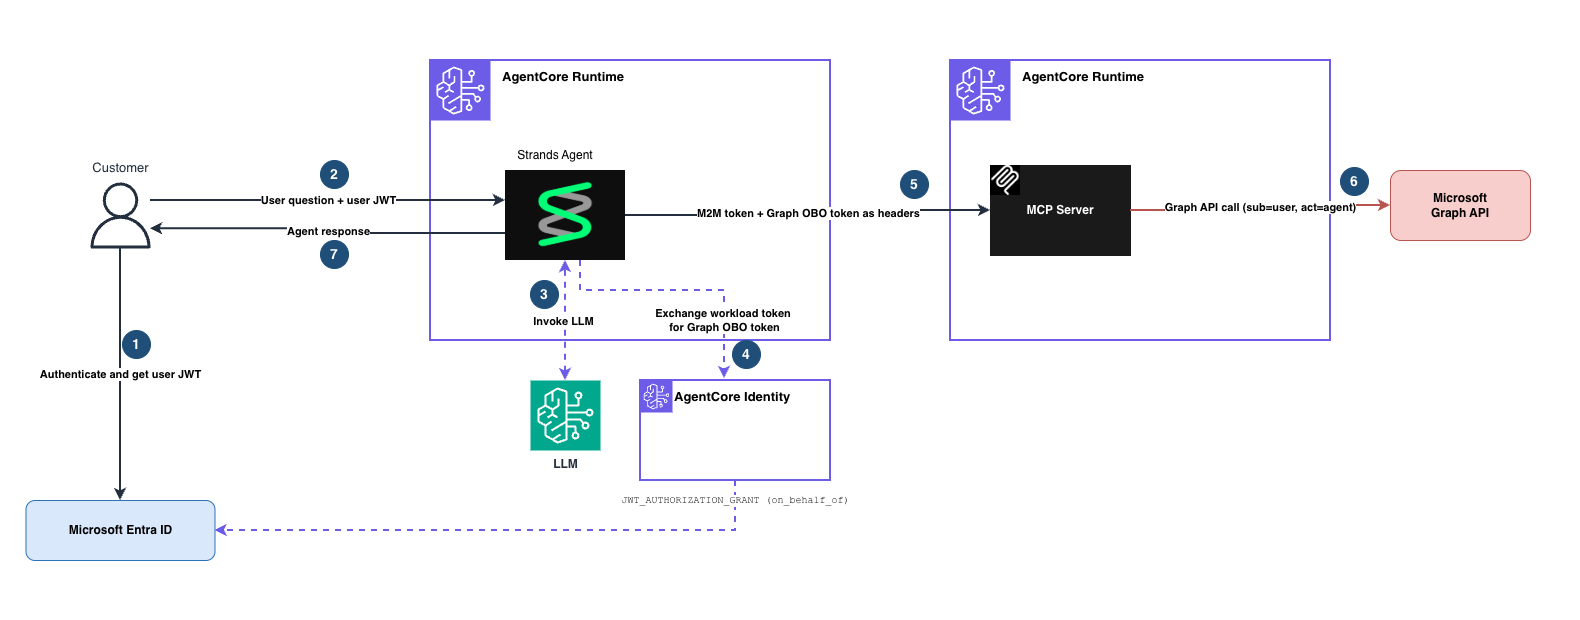
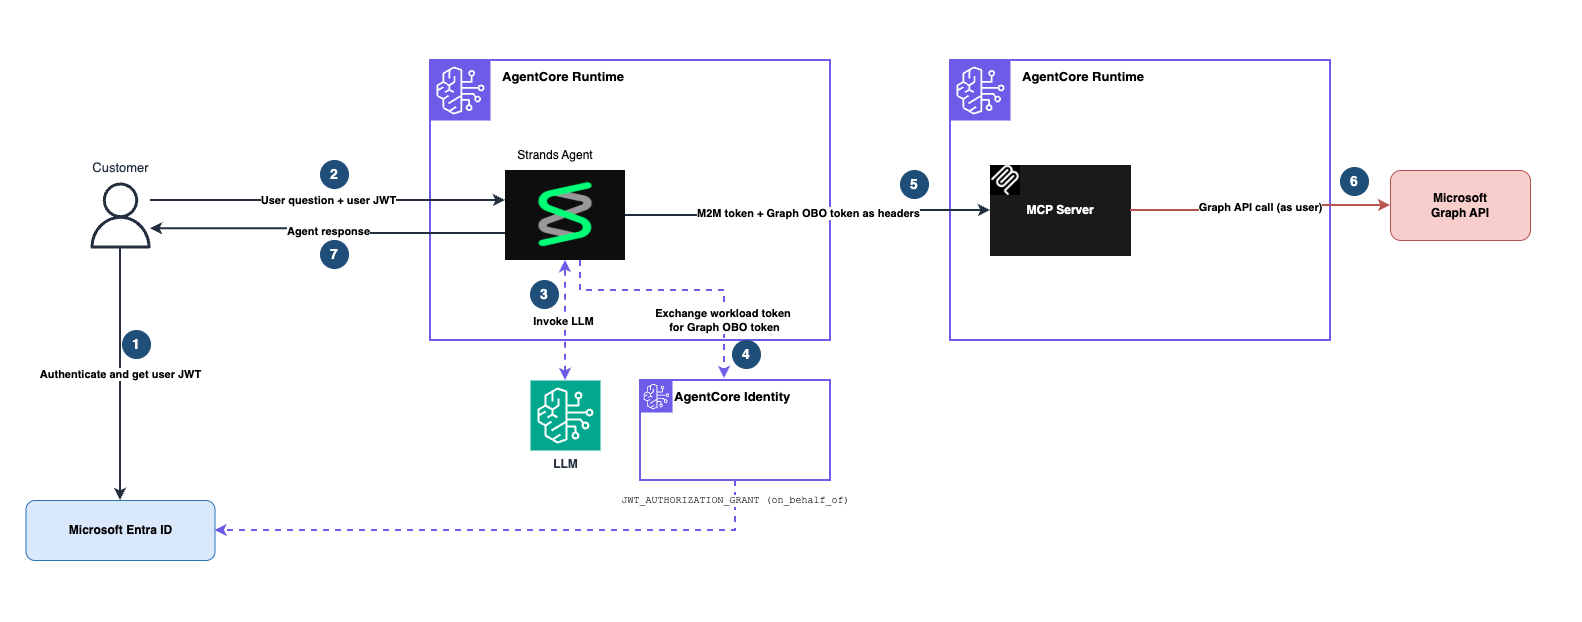
Address review feedback
Clarify Entra setup, explain how tokens are used at each hop,
number the diagram steps, and simplify wording.

diff --git a/01-tutorials/03-AgentCore-identity/13-entra-obo-mcp-runtime/ENTRA_SETUP.md b/01-tutorials/03-AgentCore-identity/13-entra-obo-mcp-runtime/ENTRA_SETUP.md
@@ -1,0 +1,232 @@
+# Entra ID setup
+
+This document walks you through registering the two Microsoft Entra ID apps required by this sample. It is longer than the Prerequisites section in the notebook because it explains **why** each step is needed - not just what to click.
+
+If you only want the short version, the notebook's Prerequisites cell has everything in one page. Use this doc if something doesn't work, or if you want to understand what each setting does.
+
+---
+
+## The big picture
+
+We're going to create **two** Entra app registrations:
+
+1. **`AgentCore - Agent`** - the app users sign in to, that performs OBO to get Graph tokens, and that also authenticates to the MCP server with M2M. One app, three jobs.
+2. **`AgentCore - MCP Server`** - the app whose ID is the expected audience of the M2M token at the MCP server. Holds no secrets and is never signed in to.
+
+The Agent app handles sign-in, OBO token exchange, and M2M authentication to the MCP server. The MCP Server app is a separate resource identity that gives the MCP authorizer a distinct audience (`api://<MCP_CLIENT_ID>`) and an app role (`mcp_invoke`) to validate. Microsoft's OBO documentation endorses using a single app for sign-in and middle-tier roles (see [*"Use of a single application"*](https://learn.microsoft.com/en-us/entra/identity-platform/v2-oauth2-on-behalf-of-flow#use-of-a-single-application)).
+
+---
+
+## Prerequisites
+
+- Sign in at [https://entra.microsoft.com](https://entra.microsoft.com) with **tenant admin** or **Application Administrator + Cloud Application Administrator**. You will grant admin consent twice during this walkthrough.
+- If the Authentication blade shows the Preview UI, switch to the classic UI first: look for the banner link *"To switch to the old experience, please click here"* near the top.
+- From the Entra admin center **Overview** page, note your **Tenant ID**. This is `ENTRA_TENANT_ID` in the notebook.
+
+Total time: 10-20 minutes.
+
+---
+
+## Part 1 - Register the Agent app
+
+### 1.1 Create the app
+
+1. Left nav: **Applications → App registrations**
+2. Click **+ New registration** at the top
+3. Fill in:
+   - **Name**: `AgentCore - Agent`
+   - **Supported account types**: **Accounts in this organizational directory only (Single tenant)**
+   - **Redirect URI**: leave blank
+4. Click **Register**
+
+On the Overview page that loads, copy **Application (client) ID**. This is `ENTRA_AGENT_CLIENT_ID`.
+
+### 1.2 Authentication - enable device code flow
+
+**Why**: our notebook authenticates users via MSAL's device code flow (the "go to aka.ms/devicelogin and enter code XXXXX" pattern). Microsoft classifies device code flow as a **public client** flow, and it needs a specific redirect URI (`https://login.microsoftonline.com/common/oauth2/nativeclient`) registered on the app. We also need to toggle "Allow public client flows" so the app registration advertises itself as a valid target for this flow.
+
+1. Left nav of the app: **Authentication**
+2. Under **Platform configurations**, click **+ Add a platform**
+3. In the panel that opens, click the tile **Mobile and desktop applications** (the one whose description mentions Windows, UWP, Console, IoT, Classic iOS + Android). Not iOS/macOS, not Android - those are for apps built with those specific SDKs and require bundle IDs we don't have.
+4. In the next panel, tick the box next to `https://login.microsoftonline.com/common/oauth2/nativeclient`. Leave the others unchecked.
+5. Click **Configure**
+6. Back on the main Authentication page, scroll down to **Advanced settings**
+7. Find **Allow public client flows** and flip the toggle to **Yes**
+8. Click **Save** at the top
+
+### 1.3 Certificates & secrets - create a client secret
+
+**Why**: even though this app allows public-client flows (for device code sign-in), it is *also* acting as a confidential client when it performs OBO. Confidential clients authenticate to Microsoft with a client secret (or certificate). We will configure the secret in the notebook's AgentCore Identity credential provider so AgentCore can do the OBO exchange on behalf of the agent.
+
+1. Left nav: **Certificates & secrets**
+2. On the **Client secrets** tab, click **+ New client secret**
+3. Fill in:
+   - **Description**: `AgentCore OBO sample secret`
+   - **Expires**: whatever your org policy allows - 6 or 12 months is fine for a sample
+4. Click **Add**
+5. A new row appears with a **Value** column. **Copy the Value now** - this is `ENTRA_AGENT_CLIENT_SECRET`. Once you navigate away, Entra masks the value permanently; if you miss it, you'll have to delete this secret and create a new one.
+
+### 1.4 Expose an API - Application ID URI and delegated scope
+
+**Why**: the app needs an Application ID URI so that tokens issued for it have a stable audience value. The exposed scope below is required for sign-in to succeed; if it's missing, sign-in fails with `AADSTS65002`.
+
+1. Left nav: **Expose an API**
+2. Next to **Application ID URI**, click **Add** (or **Set**). Entra proposes `api://<client-id>`. Click **Save**.
+3. Under **Scopes defined by this API**, click **+ Add a scope**. Fill in:
+   - **Scope name**: `user_delegation`
+   - **Who can consent**: **Admins and users**
+   - **Admin consent display name**: `Delegate to the agent on the signed-in user's behalf`
+   - **Admin consent description**: `Allows the agent to call downstream APIs such as Microsoft Graph on behalf of the signed-in user, via Microsoft's OAuth 2.0 On-Behalf-Of flow.`
+   - **User consent display name**: `Let the agent act on your behalf`
+   - **User consent description**: `Allows the agent to read your profile on your behalf.`
+   - **State**: **Enabled**
+4. Click **Add scope**
+
+You should now see a row reading `api://<AGENT_CLIENT_ID>/user_delegation` with State = Enabled.
+
+### 1.5 API permissions - Microsoft Graph delegated permission
+
+**Why**: for the OBO exchange to produce a Graph token, the Agent app must first be granted delegated Graph permissions. When the user consents at sign-in, Entra combines this permission into the consent prompt so the user authorises the agent to use Graph on their behalf. We admin-consent here to avoid the user being prompted individually.
+
+1. Left nav: **API permissions**
+2. Click **+ Add a permission**
+3. Click **Microsoft Graph**
+4. Click **Delegated permissions**
+5. In the search box, type `User.Read` and tick the box next to it
+6. Click **Add permissions** at the bottom
+7. Back on the API permissions list, `User.Read` shows up with status **"Not granted for \<tenant\>"**
+8. Click **Grant admin consent for \<tenant\>** near the top of the list. Confirm.
+
+The row must flip to green check marks **"Granted for \<tenant\>"** before you move on. If the button is greyed out, you need admin privileges - ask your tenant admin to do this step.
+
+### 1.6 API permissions - MCP Server app (come back after Part 2)
+
+The Agent app also needs permission to call the MCP server as itself (M2M). That permission is defined on the MCP Server app, which doesn't exist yet. **Skip to Part 2**, then come back here.
+
+---
+
+## Part 2 - Register the MCP Server app
+
+This app has one job: define the audience and app role that the MCP server's authorizer validates against. No secrets, no sign-in, no scopes.
+
+### 2.1 Create the app
+
+1. Left nav: **Applications → App registrations**, click **+ New registration**
+2. Fill in:
+   - **Name**: `AgentCore - MCP Server`
+   - **Supported account types**: **Accounts in this organizational directory only (Single tenant)**
+   - **Redirect URI**: leave blank
+3. Click **Register**
+
+On Overview, copy **Application (client) ID**. This is `ENTRA_MCP_CLIENT_ID`.
+
+### 2.2 Expose an API - Application ID URI only
+
+**Why**: we need a stable audience value for the M2M token the agent will send to the MCP server. The MCP server's `customJWTAuthorizer` validates `aud = "api://<MCP_CLIENT_ID>"`. No scope needed - we authorise via an **app role**, not a scope.
+
+1. Left nav: **Expose an API**
+2. Click **Add** next to **Application ID URI**, accept the proposed `api://<client-id>`, click **Save**
+
+Do not add a scope here. That's deliberate.
+
+### 2.3 App roles - define `mcp_invoke`
+
+**Why**: when the Agent app calls the MCP server with a client-credentials (M2M) token, that token's authorisation claim is `roles`, not `scp` (because there's no user involved). The MCP server's `customJWTAuthorizer` looks for the string `mcp_invoke` in the `roles` claim. We define the role here; we grant it in Part 3.
+
+1. Left nav: **App roles**
+2. Click **+ Create app role**
+3. Fill in:
+   - **Display name**: `Invoke MCP Server`
+   - **Allowed member types**: **Applications** (critical - not Users/Groups; this is an app-only role)
+   - **Value**: `mcp_invoke`
+   - **Description**: `Apps that can invoke tools on this MCP Server.`
+   - **Do you want to enable this app role?**: ticked
+4. Click **Apply**
+
+---
+
+## Part 3 - Finish step 1.6 on the Agent app
+
+Now that the MCP Server app exists with its `mcp_invoke` role, go back to the Agent app and grant it.
+
+1. Left nav: **Applications → App registrations**, select **AgentCore - Agent**
+2. Left nav: **API permissions**
+3. Click **+ Add a permission**
+4. Click the **APIs my organization uses** tab
+5. Search for `AgentCore - MCP Server`, click it in the results
+6. Choose **Application permissions** (not Delegated - this is M2M)
+7. Tick `mcp_invoke`
+8. Click **Add permissions**
+
+You're back on the API permissions list. You should now see two rows:
+
+| Permission | Type | Status |
+|---|---|---|
+| `User.Read` (Microsoft Graph) | Delegated | Granted for \<tenant\> |
+| `mcp_invoke` (AgentCore - MCP Server) | Application | Not granted for \<tenant\> |
+
+9. Click **Grant admin consent for \<tenant\>**. Confirm.
+
+Both rows must show green check marks before you move on.
+
+---
+
+## Part 4 - Collect the four values
+
+| Env var | Source |
+|---|---|
+| `ENTRA_TENANT_ID` | Entra admin center → Overview → **Tenant ID** |
+| `ENTRA_AGENT_CLIENT_ID` | Agent app → Overview → **Application (client) ID** |
+| `ENTRA_AGENT_CLIENT_SECRET` | The secret value you copied in step 1.3 |
+| `ENTRA_MCP_CLIENT_ID` | MCP Server app → Overview → **Application (client) ID** |
+
+These four values go into the notebook's **Step 2** cell.
+
+---
+
+## How the pieces fit together at runtime
+
+- User signs in to the Agent app via MSAL device code flow. Entra issues a user JWT.
+- AgentCore Runtime validates the JWT and delivers the agent request. The agent calls `GetResourceOauth2Token` with `ON_BEHALF_OF_TOKEN_EXCHANGE`, and AgentCore Identity exchanges the user JWT for a Microsoft Graph delegation token on the agent's behalf.
+- Separately, AgentCore Identity fetches an M2M token for the agent (client_credentials against the same Agent app) audienced to the MCP Server app and carrying the `mcp_invoke` role.
+- The agent calls the MCP server with the M2M token in `Authorization` and the Graph delegation token in a custom request header. The MCP server's authorizer accepts the M2M token based on audience and role, and the tool uses the delegation token to call Graph.
+
+---
+
+## Sanity checks via the app manifest
+
+If anything fails at runtime, open each app's **Manifest** (left nav) and verify:
+
+**Agent app:**
+- `"allowPublicClient": true`
+- `"identifierUris": ["api://<AGENT_CLIENT_ID>"]`
+- `"oauth2Permissions"` has one entry with `"value": "user_delegation"` and `"isEnabled": true`
+- `"requiredResourceAccess"` has one entry for Microsoft Graph (resource appId `00000003-0000-0000-c000-000000000000`) with the `User.Read` scope ID, and one for the MCP Server app with the `mcp_invoke` role ID
+
+**MCP Server app:**
+- `"identifierUris": ["api://<MCP_CLIENT_ID>"]`
+- `"appRoles"` has one entry with `"value": "mcp_invoke"` and `"allowedMemberTypes": ["Application"]`
+- No entries under `"oauth2Permissions"` (we deliberately did not add a scope)
+
+---
+
+## Common errors and how to fix them
+
+| Symptom | Most likely cause | Fix |
+|---|---|---|
+| Sign-in: `AADSTS65002: Resource for this token request is not a valid scope` | Application ID URI not set, or `user_delegation` scope missing/disabled | Redo step 1.4 |
+| Sign-in: `AADSTS500011: resource principal does not exist` | Application ID URI not set, or user belongs to a different tenant | Verify step 1.4 saved; confirm `ENTRA_TENANT_ID` |
+| Sign-in: hangs on device code, never progresses | "Allow public client flows" is **No**, or `nativeclient` URI missing | Redo step 1.2 |
+| Agent returns 401 from the authorizer | Agent app's `allowedAudience` must be the bare GUID `<ENTRA_AGENT_CLIENT_ID>`, no `api://` prefix | Check the agent's `configure()` call in the notebook |
+| OBO: `AADSTS500131: Assertion audience does not match the Client app` | MSAL scope must produce a JWT with `aud = <ENTRA_AGENT_CLIENT_ID>` | Check the MSAL sign-in cell |
+| Sign-in: `AADSTS90009: Application is requesting a token for itself. This scenario is supported only if resource is specified using the GUID based App Identifier.` | MSAL scope must use the bare-GUID form `<ENTRA_AGENT_CLIENT_ID>/.default`, not `api://` | Check the MSAL sign-in cell |
+| OBO: `AADSTS65001: user or administrator has not consented` | Graph delegated permissions exist but admin consent wasn't granted | Redo admin consent in step 1.5 |
+| MCP returns 401, or agent says tools are unavailable | M2M token missing `roles` claim - either `mcp_invoke`'s Allowed member types is wrong (must be **Applications**), or admin consent wasn't granted | Verify step 2.3 and the consent in Part 3 |
+
+---
+
+## References
+
+- [Microsoft identity platform - OAuth 2.0 On-Behalf-Of flow](https://learn.microsoft.com/en-us/entra/identity-platform/v2-oauth2-on-behalf-of-flow)
+- [Microsoft identity platform - Use of a single application (OBO simplification)](https://learn.microsoft.com/en-us/entra/identity-platform/v2-oauth2-on-behalf-of-flow#use-of-a-single-application)
+- [Amazon Bedrock AgentCore - On-behalf-of token exchange](https://docs.aws.amazon.com/bedrock-agentcore/latest/devguide/on-behalf-of-token-exchange.html)
